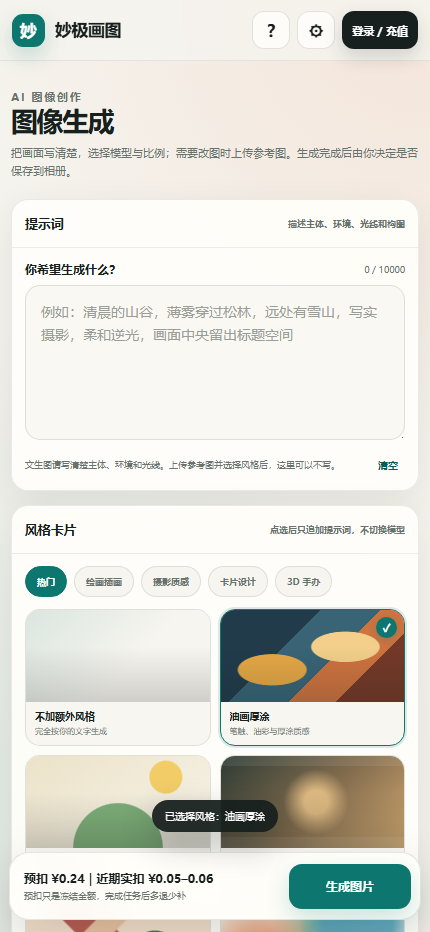
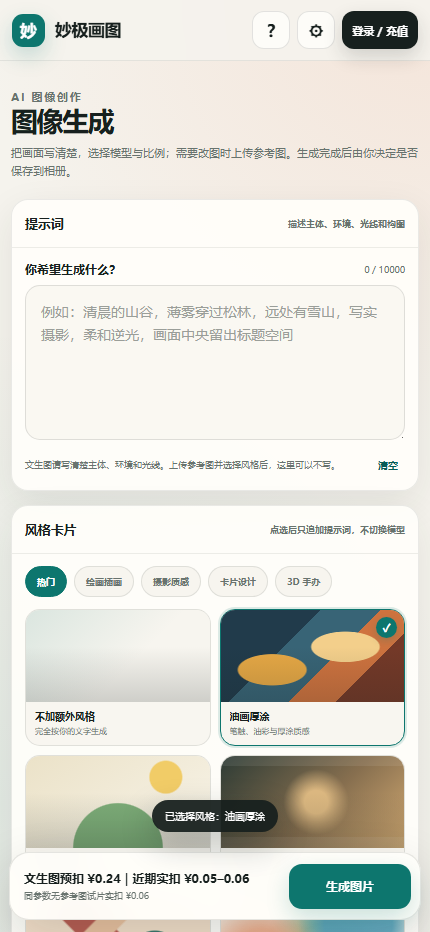
release: separate text-to-image and image-to-image pricing

Changed region(s): [[0.0605, 0.9335, 0.5744, 0.9646]]

diff --git a/android/app/src/main/assets/index.html b/android/app/src/main/assets/index.html
@@ -1138,7 +1138,7 @@
         <div class="update-box">
           <div class="update-head">
             <strong>应用更新</strong>
-            <span class="version-text" id="versionText">当前版本 1.3.1</span>
+            <span class="version-text" id="versionText">当前版本 1.3.2</span>
           </div>
           <p class="update-message" id="updateMessage">从 GitHub Releases 检查新版本。</p>
           <div class="button-row">
@@ -1538,8 +1538,13 @@
       const cents = estimateCents();
       if (currentModel.model === "gpt-image-2.5-flare"
           && qualitySelect.value === "low" && resolutionSelect.value === "1k") {
-        priceTitle.textContent = "预扣 ¥0.24｜近期实扣 ¥0.05–0.06";
-        priceDetail.textContent = "预扣只是冻结金额，完成任务后多退少补";
+        if (referenceDataUrl) {
+          priceTitle.textContent = "图生图预扣 ¥0.24｜近期实扣约 ¥0.11–0.14";
+          priceDetail.textContent = "参考图会计算输入成本，所以比纯文生图贵";
+        } else {
+          priceTitle.textContent = "文生图预扣 ¥0.24｜近期实扣 ¥0.05–0.06";
+          priceDetail.textContent = "同参数无参考图试片实扣 ¥0.06";
+        }
       } else if (cents > 0) {
         priceTitle.textContent = `预扣 ¥${(cents / 100).toFixed(2)}`;
         priceDetail.textContent = "完成后的实扣金额可能低于预扣，多退少补";
@@ -1562,6 +1567,7 @@
       $("promptHint").textContent = canGenerateFromReference
         ? "已上传参考图并选择风格，直接点“生成图片”即可；这里的文字只用于补充细节。"
         : "文生图请写清楚主体、环境和光线。上传参考图并选择风格后，这里可以不写。";
+      updatePrice();
     }
 
     function updateConnectionState() {
@@ -1962,7 +1968,7 @@
       updateCharCount();
       updateConnectionState();
       $("versionText").textContent = bridge()
-        ? `当前版本 ${bridge().currentVersion()}` : "当前版本 1.3.1";
+        ? `当前版本 ${bridge().currentVersion()}` : "当前版本 1.3.2";
 
       if (!isPreview && bridge() && !bridge().hasKey()) {
         openModal(settingsModal);

diff --git a/android/app/src/main/java/com/codex/miaojipaint/MainActivity.java b/android/app/src/main/java/com/codex/miaojipaint/MainActivity.java
@@ -234,7 +234,7 @@ public class MainActivity extends Activity {
             try {
                 return getPackageManager().getPackageInfo(getPackageName(), 0).versionName;
             } catch (Exception error) {
-                return "1.3.1";
+                return "1.3.2";
             }
         }
 
@@ -543,7 +543,7 @@ public class MainActivity extends Activity {
         try {
             return getPackageManager().getPackageInfo(getPackageName(), 0).versionName;
         } catch (Exception error) {
-            return "1.3.1";
+            return "1.3.2";
         }
     }
 

diff --git a/README.md b/README.md
@@ -14,6 +14,11 @@
 - “登录 / 充值”直达妙极官网登录/注册页面。
 - GitHub Releases 检查更新。
 
+## 计费提示
+
+- GPT Image 2.5 Flare，1K 低档纯文生图：预扣约 `¥0.24`，近期实扣约 `¥0.05–0.06`。
+- 同档位带参考图的图生图：近期实扣约 `¥0.11–0.14`，因为参考图也计算输入成本。
+
 ![主界面](docs/screenshot-main.png)
 
 | 生成设置与结果 | 设置与更新 |
